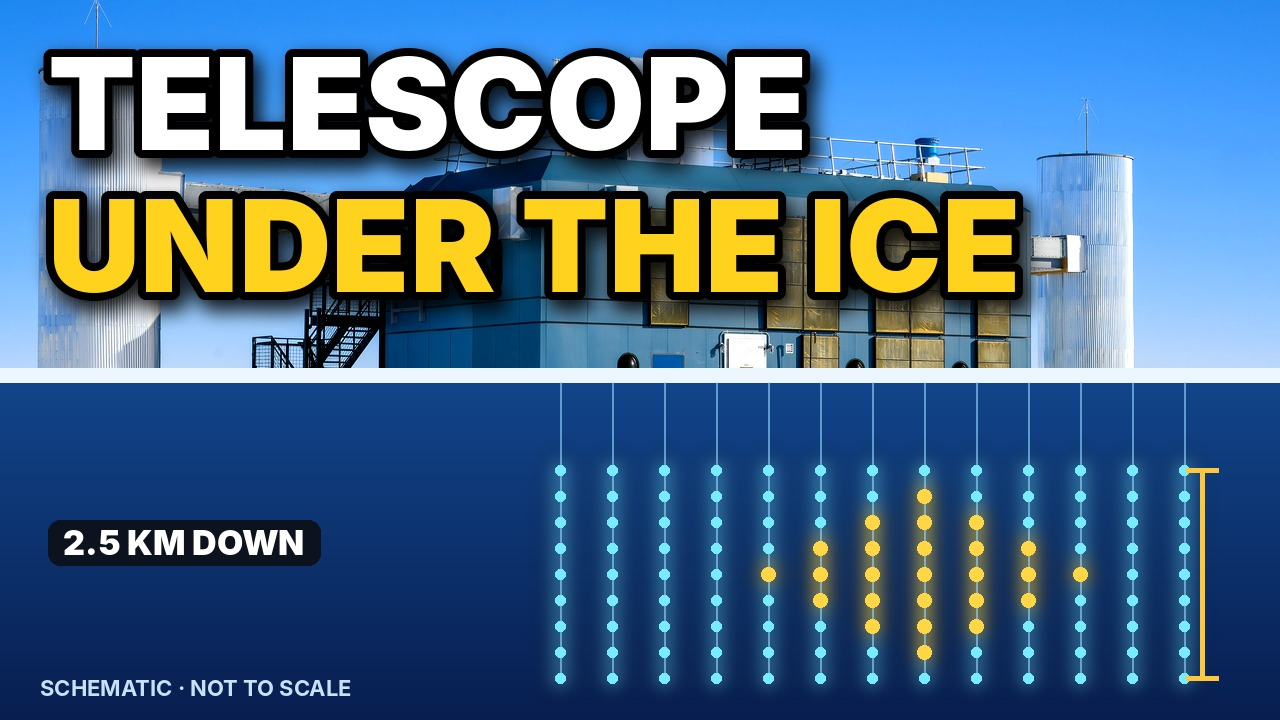
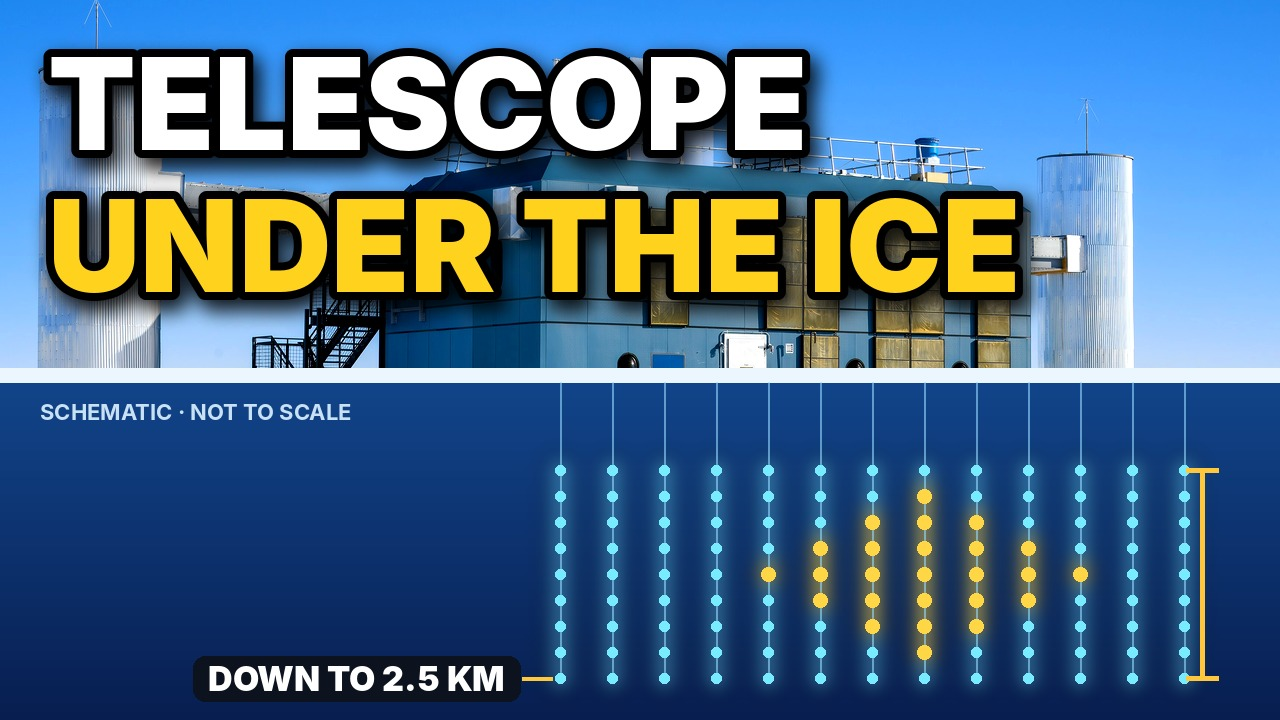
EP010 IceCube final master: earlier intro descent, no label-clipping zooms, middle re-cut, upgrade label on schematic, even 60->30 fps cadence, final thumbnail
Claude-Session: https://claude.ai/code/session_01L5UnMmnsoZhHtvuC9ySHpE

Changed region(s): [[0.0312, 0.8861, 0.4375, 0.9778], [0.0312, 0.7028, 0.25, 0.7944], [0.0312, 0.55, 0.2812, 0.5806]]

diff --git a/production/icecube-2026-11-06/assembly/shots.py b/production/icecube-2026-11-06/assembly/shots.py
@@ -22,9 +22,10 @@ W_, Y_ = "#FFFFFF", "#FFD23F"
 
 SHOTS = [
     # 01 hook: the visible building, then straight under the snow
-    (0.00,   "photo", "P01", 0.0,  dict(contain=True, z=(1.0, 1.035), txt=[cr(CR_P01)])),
-    (4.38,   "anim",  "A01", 0.0,  dict(z=(1.0, 1.0))),
-    (10.86,  "anim",  "A01", 7.2,  dict(z=(1.0, 1.08), c1=(0.52, 0.55))),
+    (0.00,   "photo", "P01", 0.0,  dict(contain=True, z=(1.0, 1.02), txt=[cr(CR_P01)])),
+    # 2.5 s: cut under the snow, strings descend; sensors on screen by ~3.5 s
+    (2.50,   "anim",  "A01", 3.0,  dict(z=(1.0, 1.04))),
+    (10.86,  "anim",  "A01", 11.36, dict(z=(1.0, 1.06))),
     (16.63,  "live",  "V01", 200.5, dict(txt=[cr(CR_V01)])),
     (19.59,  "anim",  "A03", 0.0,  dict(z=(1.0, 1.06), txt=[big([("NEUTRINOS", Y_), ("PASS STRAIGHT THROUGH", W_)], "br")])),
     (24.46,  "live",  "V01", 3.0,  dict(txt=[cr(CR_V01s)])),
@@ -41,10 +42,10 @@ SHOTS = [
     # 03 why the target is difficult
     (64.33,  "anim",  "V03", 0.0,  dict(txt=[cr(CR_VIS)])),
     (69.09,  "live",  "V01", 141.0, dict(mi=True, txt=[cr(CR_V01s)])),
-    (74.20,  "anim",  "V03", 3.4,  dict(txt=[cr(CR_VIS), big([("~100 TRILLION", Y_), ("NEUTRINOS THROUGH YOU", W_), ("EVERY SECOND", W_)], "br")])),
+    (74.20,  "anim",  "V03", 3.25,  dict(txt=[cr(CR_VIS), big([("~100 TRILLION", Y_), ("NEUTRINOS THROUGH YOU", W_), ("EVERY SECOND", W_)], "br")])),
     (79.63,  "live",  "V01", 43.0, dict(txt=[cr(CR_V01s)])),
-    (83.42,  "anim",  "A03", 0.0,  dict(z=(1.0, 1.12), c1=(0.35, 0.45))),
-    (89.15,  "anim",  "A01", 6.0,  dict(z=(2.2, 1.0), c0=(0.47, 0.6))),
+    (83.42,  "anim",  "A03", 0.0,  dict(z=(1.0, 1.06))),
+    (89.15,  "anim",  "A01", 6.0,  dict(z=(1.8, 1.0), c0=(0.45, 0.55))),
     (95.17,  "live",  "V01", 62.0, dict(txt=[cr(CR_V01s)])),
     (99.98,  "anim",  "V02", 0.5,  dict(txt=[cr(CR_VIS)])),
     (103.62, "live",  "V01", 243.0, dict(txt=[cr(CR_V01s)])),
@@ -59,22 +60,22 @@ SHOTS = [
     (138.28, "anim",  "A01", 12.0, dict(z=(1.0, 1.06), txt=[big([("86 × 60", Y_), ("= 5,160", W_)], "tr")])),
     (144.39, "live",  "V01", 21.0, dict(txt=[cr(CR_V01s)])),
     (149.49, "live",  "V01", 224.0, dict(txt=[cr(CR_V01s)])),
-    (153.08, "anim",  "A02", 13.4, dict(z=(1.0, 1.2), c1=(0.75, 0.6))),
+    (153.08, "anim",  "A02", 13.4, dict(z=(1.0, 1.06))),
     # 05 what a detection means
     (157.57, "anim",  "A03", 0.0,  dict(z=(1.0, 1.06))),
-    (162.42, "anim",  "A03", 4.9,  dict(z=(1.0, 1.06))),
-    (166.74, "anim",  "A03", 9.3,  dict(z=(1.0, 1.25), c1=(0.47, 0.5),
+    (162.42, "anim",  "A03", 4.85, dict(z=(1.0, 1.06))),
+    (166.74, "anim",  "A03", 9.17, dict(z=(1.0, 1.06),
                                        txt=[big([("CHERENKOV LIGHT", Y_), ("FAINT BLUE GLOW IN ICE", W_)], "tr")])),
-    (174.20, "live",  "V01", 121.0, dict(mi=True, txt=[cr(CR_V01s)])),
-    (177.42, "anim",  "A03", 13.0, dict(z=(1.25, 1.1), c0=(0.47, 0.5),
+    (174.20, "live",  "V01", 52.0, dict(txt=[cr(CR_V01s)])),
+    (177.42, "live",  "V01", 121.0, dict(mi=True, 
                                        txt=[big([("FASTER THAN LIGHT IN ICE", Y_), ("NOT FASTER THAN LIGHT IN A VACUUM", W_)], "tr")])),
     (181.41, "anim",  "A04", 0.0,  dict(z=(1.0, 1.06))),
     (188.21, "anim",  "A04", 6.8,  dict(z=(1.0, 1.06))),
-    (193.99, "anim",  "A03", 3.0,  dict(z=(1.35, 1.5), c0=(0.3, 0.5), c1=(0.33, 0.5))),
+    (193.99, "anim",  "A01", 8.6,  dict(z=(1.0, 1.06))),
     (198.52, "live",  "V01", 75.0, dict(txt=[cr(CR_V01s)])),
-    (202.79, "anim",  "A03", 3.6,  dict(z=(1.0, 1.2), c1=(0.3, 0.55))),
+    (202.79, "anim",  "A03", 5.6,  dict(z=(1.0, 1.06))),
     (208.97, "photo", "P02", 0.0,  dict(z=(1.25, 1.1), c0=(0.5, 0.7), txt=[cr(CR_P02)])),
-    (213.03, "anim",  "A03", 12.0, dict(z=(1.1, 1.0))),
+    (213.03, "anim",  "A04", 3.0,  dict(z=(1.06, 1.0))),
     # 06 a message and a direction
     (216.90, "live",  "V01", 30.0, dict(txt=[cr(CR_V01s)])),
     (220.90, "live",  "V01", 10.0, dict(txt=[cr(CR_V01s)] + [big([("2013", Y_), ("HIGH-ENERGY NEUTRINOS", W_), ("FROM BEYOND THE SOLAR SYSTEM", W_)], "tr")])),
@@ -90,7 +91,7 @@ SHOTS = [
     (269.31, "anim",  "V03", 2.0,  dict(split=("V04", 3.5), txt=[cr(CR_VIS)])),
     (275.67, "anim",  "A04", 12.0, dict(z=(1.0, 1.06), txt=[big([("2018", Y_), ("EVIDENCE LINKING THE TWO", W_)], "br")])),
     (279.32, "live",  "V01", 233.0, dict(txt=[cr(CR_V01s)])),
-    (283.50, "anim",  "A04", 13.5, dict(z=(1.0, 1.15), c1=(0.7, 0.5))),
+    (283.50, "anim",  "A04", 13.5, dict(z=(1.0, 1.06))),
     (287.65, "anim",  "A03", 9.0,  dict(z=(1.0, 1.06), txt=[big([("ICECUBE", Y_), ("THE PARTICLE CLUE", W_)], "br")])),
     (290.55, "anim",  "V04", 5.5,  dict(txt=[cr(CR_VIS), big([("TELESCOPES", Y_), ("THE LIGHT", W_)], "br")])),
     # 07 return to the ice
@@ -98,8 +99,8 @@ SHOTS = [
     (295.32, "live",  "V01", 206.0, dict(txt=[cr(CR_V01s)])),
     (300.12, "live",  "V01", 170.0, dict(txt=[cr(CR_V01s)])),
     (305.16, "anim",  "A01", 14.0, dict(z=(1.0, 1.06), txt=[big([("ORIGINAL ARRAY", Y_), ("COMPLETED 2010", W_)], "tr")])),
-    (310.16, "live",  "V01", 190.0, dict(txt=[cr(CR_V01s), big([("ICECUBE UPGRADE", Y_), ("DEPLOYED 2026", W_)], "br")])),
-    (314.88, "anim",  "A01", 11.5, dict(z=(1.08, 1.0), txt=[big([("5,160 MODULES", Y_), ("= ORIGINAL ARRAY ONLY", W_)], "tr")])),
+    (310.16, "anim",  "A02", 0.0,  dict(z=(1.0, 1.06), txt=[big([("ICECUBE UPGRADE", Y_), ("DEPLOYED 2026", W_)], "br")])),
+    (314.88, "anim",  "A01", 11.5, dict(z=(1.06, 1.0), txt=[big([("5,160 MODULES", Y_), ("= ORIGINAL ARRAY ONLY", W_)], "tr")])),
     (320.30, "photo", "P01", 0.0,  dict(contain=True, z=(1.0, 1.035), txt=[cr(CR_P01)])),
     (323.27, "anim",  "A01", 0.0,  dict(z=(1.0, 1.06))),
     (328.91, "anim",  "A03", 0.0,  dict(z=(1.0, 1.06))),

diff --git a/production/icecube-2026-11-06/assembly/assemble.py b/production/icecube-2026-11-06/assembly/assemble.py
@@ -87,6 +87,13 @@ def motion(o, n):
     return (f",scale={2 * W}:{2 * H}:flags=lanczos,zoompan=z='{z}':x='{x}':y='{y}':d=1:s={W}x{H}:fps={FPS}")
 
 
+HALF = {"V02", "V03", "V04"}  # ~60 fps NASA renders: take every 2nd decoded frame (their webm timestamps jitter)
+
+
+def to30(src):
+    return "select='not(mod(n\\,2))',setpts=N/(30*TB)" if src in HALF else f"fps={FPS}"
+
+
 def cover(label_in, label_out):
     return (f"[{label_in}]scale={W}:{H}:force_original_aspect_ratio=increase:flags=lanczos,"
             f"crop={W}:{H},setsar=1[{label_out}]")
@@ -119,11 +126,11 @@ def shot_cmd(s, media, work, voice_t0=None):
         if "split" in o:
             sb, ib = o["split"]
             args += ["-ss", f"{ib:.3f}", "-t", f"{dur + 0.5:.3f}", "-i", os.path.join(media, SRC[sb])]
-            g.append(f"[0:v]fps={FPS},scale={W // 2}:{H}:force_original_aspect_ratio=increase,crop={W // 2}:{H},setsar=1[l]")
-            g.append(f"[1:v]fps={FPS},scale={W // 2}:{H}:force_original_aspect_ratio=increase,crop={W // 2}:{H},setsar=1[r]")
+            g.append(f"[0:v]{to30(s['src'])},scale={W // 2}:{H}:force_original_aspect_ratio=increase,crop={W // 2}:{H},setsar=1[l]")
+            g.append(f"[1:v]{to30(sb)},scale={W // 2}:{H}:force_original_aspect_ratio=increase,crop={W // 2}:{H},setsar=1[r]")
             g.append(f"[l][r]hstack,drawbox=x={W // 2 - 2}:y=0:w=4:h={H}:color=0x0b1a2b:t=fill[v0]")
         else:
-            conv = (f"minterpolate=fps={FPS}:mi_mode=mci:mc_mode=aobmc:me_mode=bidir:vsbmc=1" if o.get("mi") else f"fps={FPS}")
+            conv = (f"minterpolate=fps={FPS}:mi_mode=mci:mc_mode=aobmc:me_mode=bidir:vsbmc=1" if o.get("mi") else to30(s["src"]))
             g.append(f"[0:v]{pre}{conv}[r0]"); g.append(cover("r0", "c0")); g.append(f"[c0]null{motion(o, n)}[v0]")
     last = "v0"
     txt = list(o.get("txt", []))

diff --git a/production/icecube-2026-11-06/assembly/thumbnail.py b/production/icecube-2026-11-06/assembly/thumbnail.py
@@ -60,9 +60,11 @@ def badge(text, x, y, anchor_right=True):
     bx = x - w if anchor_right else x
     d.rounded_rectangle([bx, y, bx + w, y + h], 12, fill=(12, 18, 30, 230))
     d.text((bx + 15 - l, y + 10 - t), text, font=fb, fill=(255, 255, 255, 255))
-badge("2.5 KM DOWN", 48, 520, anchor_right=False)
+# depth label at the lowest sensor row, joined to the bottom-left dot by a short gold rule
+d.line([(522, 678), (552, 678)], fill=(255, 200, 60, 255), width=4)
+badge("DOWN TO 2.5 KM", 520, 656)
 fs = ImageFont.truetype(FI + "Inter-Bold.otf", 22)
-d.text((40, H - 46), "SCHEMATIC · NOT TO SCALE", font=fs, fill=(200, 225, 245, 255))
+d.text((40, SNOW + 26), "SCHEMATIC · NOT TO SCALE", font=fs, fill=(200, 225, 245, 255))
 
 # headline: heavy uppercase, white + yellow, thick outline + shadow
 def head(text, y, size, col):

diff --git a/production/icecube-2026-11-06/assembly/QC_EP010.md b/production/icecube-2026-11-06/assembly/QC_EP010.md
@@ -1,6 +1,6 @@
-# EP010 IceCube — QC of review cut v4 (2026-11-05)
+# EP010 IceCube — QC of final master (2026-11-05)
 
-Status: REVIEW CUT for the owner. Not uploaded, not scheduled, no queue entry.
+Status: FINAL MASTER for owner review (sha256 3f236166...). Not uploaded, not scheduled, no queue entry.
 
 ## Episode number
 EP010. EP009 = Tornado Scars (uploaded manually 2026-11-04, not in publish-data queue); no EP010 branch, queue item or file existed.
@@ -18,11 +18,11 @@ Backup: /mnt/project-files/icecube/voice/. Do not regenerate.
 - SRT built from the provider word timings (89 cues), not burned in; upload as a caption track.
 
 ## Timeline shares (from shots.py, 74 shots)
-live 103.5 s = 30.7% (target >= 30%), animation/visualization 216.5 s = 64.2% (>= 45%), photo 17.5 s = 5.2% (<= 25%).
-Longest shot 8.3 s (A01 reveal, continuous camera move). No photo held over 4.4 s. No text-only cards.
+live 102.7 s = 30.5% (target >= 30%), animation/visualization 219.1 s = 64.9% (>= 45%), photo 15.6 s = 4.6% (<= 25%).
+Longest shot 8.4 s (A01 descent). No photo held over 4.1 s. No text-only cards.
 
 ## Hook
-0-4.4 s real IceCube Lab photo ("this building"); 4.4 s cut under the snow; array with 1,450/2,450 m and 86 strings / 5,160 modules visible by ~9 s.
+0-2.5 s real IceCube Lab photo; 2.5 s cut under the snow as the strings descend; sensors on screen at ~3.5 s, before "thousands of light sensors" (4.4 s); depth scale and 86 strings / 5,160 modules by ~7 s.
 
 ## Accuracy / labels
 - V01 labelled as NASA 88-South Traverse 2019, "not IceCube construction" on first uses, short credit afterwards.
@@ -45,3 +45,13 @@ Intro test (7 shots, 31 s): 30 s wall. Full render: ~7 min wall on 4 cores; ~4 m
 - Watch the full cut in real time (subjective pacing, voice clarity, judder on V01 pans) — automated checks cannot replace it.
 - Approve or revise thumbnail and title; burned-in captions were not added (SRT track instead).
 - Publishing is a separate step with its own approval card.
+
+## Final master changes (owner notes 2026-11-05)
+- Intro: descent starts at 2.5 s, sensors at ~3.5 s; voice timing untouched.
+- Label-clipping zooms removed at 2:33-2:37 (A02) and 2:57-3:01 (replaced by live cabin shot with the speed-of-light overlay); also softened at 0:10, 1:23, 1:29, 4:43, 5:14.
+- Middle (2:37-3:36): particle passes (A03) -> interaction and light (A03) -> sensors fire in order (A04, A01 colour wave) -> direction appears (A04); repeated A03 crops removed.
+- 5:10-5:15: "ICECUBE UPGRADE / DEPLOYED 2026" now on the IceCube installation schematic, not on 2019 traverse footage.
+- ~1:04-1:20 judder: NASA particle animation (60 fps webm with jittery timestamps) was resampled with an uneven 2-3-frame cadence and ran 0.1 s past its last frame. Now every second source frame is taken and the in-point moved; frame-difference check shows an even cadence and no held frames.
+- Thumbnail: TELESCOPE / UNDER THE ICE kept; "DOWN TO 2.5 KM" at the lowest sensor row.
+- Final export recalculated changed scenes only (25 + 1 of 74 shots), rest from cache.
+- Sync: 52 speech onsets after pauses in the MP4 vs provider word starts: median -42 ms, range -100..+9 ms (detector lag). SRT: 89 cues, monotonic, last cue ends 5:34.646 inside the 5:37.4 file.
